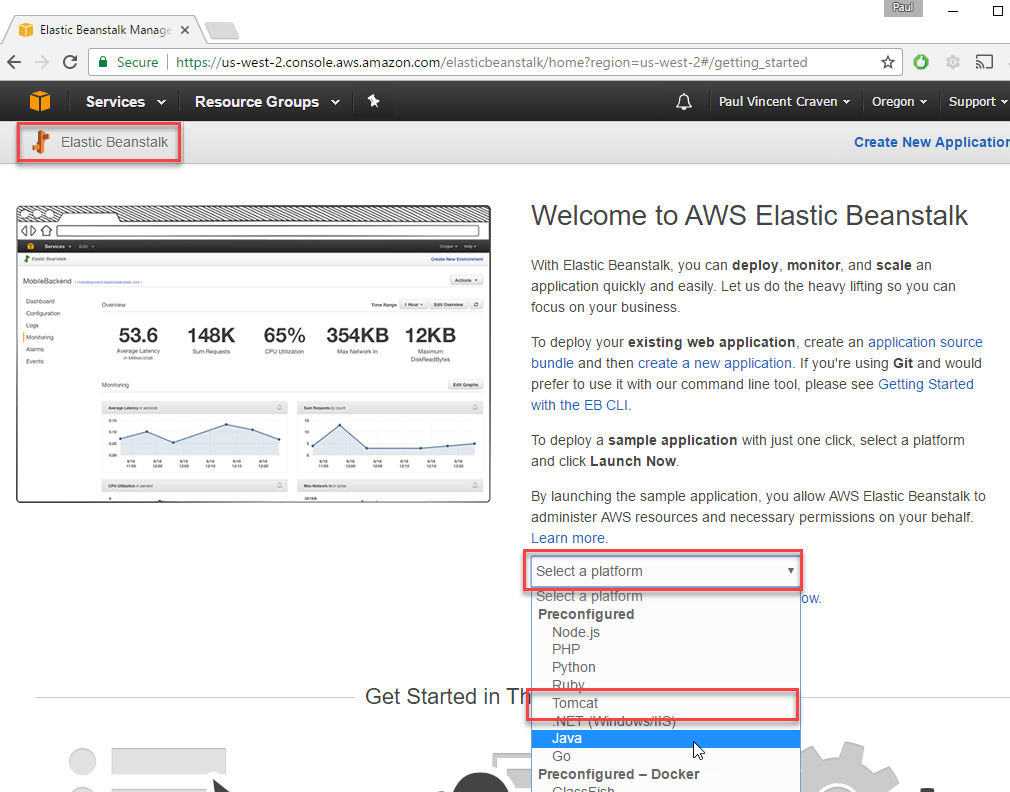
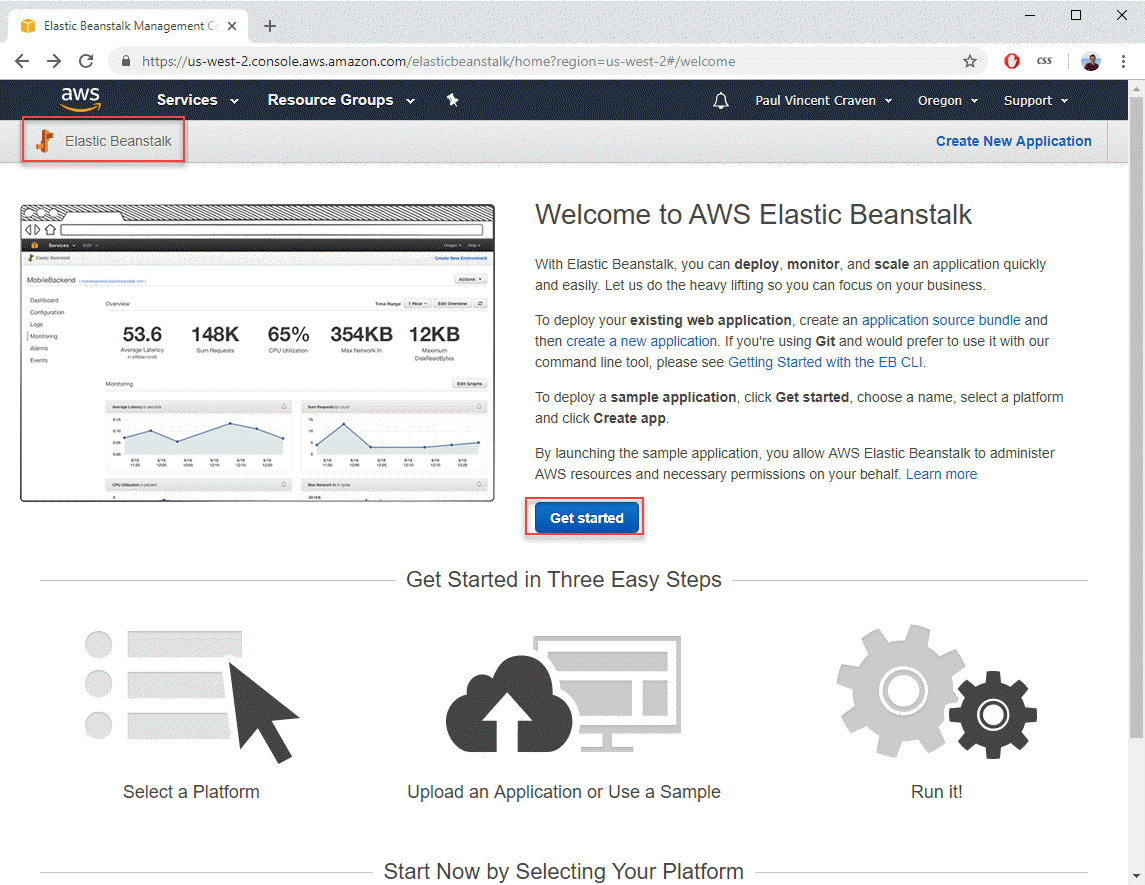
Update

diff --git a/source/semester_2/03_java_environment/java_environment.rst b/source/semester_2/03_java_environment/java_environment.rst
@@ -8,11 +8,14 @@ Install Java
 
 Download and install Java_. You want to download the "Standard Edition" (SE).
 There is also a "Java Runtime Environment" (JRE). This doesn't let you compile
-``.java`` files to ``.class``. So don't download that one.
+``.java`` files to ``.class``. So don't download that one. The SE will install
+both a Java Development Kit (JDK) and a Java Runtime Environment (JRE). We
+really only care about the JDK.
 
 .. note::
-    If you are using a lab computer, Java is already installed in
-    ``C:\Program Files\Java\jdk1.8.0_101``
+    If you already have Java installed, it may be in a path that looks something
+    like:
+    ``C:\Program Files\Java\jdk1.8.0_111``
 
 .. _Java: http://www.oracle.com/technetwork/java/javase/downloads/jdk8-downloads-2133151.html
 
@@ -43,7 +46,9 @@ Otherwise, when things break, you don't have the skills to fix it.
 Get the server running
 ^^^^^^^^^^^^^^^^^^^^^^
 
-Open up the XAMPP control panel and start Tomcat.
+Open up the XAMPP control panel and start Tomcat. It takes a while to start.
+There's a background window called ``catalina_start.bat`` you can watch if you
+get bored.
 
 .. image:: xampp.png
     :width: 500px
@@ -71,7 +76,11 @@ Serving static files
   find it in ``C:\xampp\tomcat\webapps``.
   Keep the directory name lower case and don't use spaces. Like
   ``test-app``.
+
+.. image:: create_folder.png
+
 * Create a test html file in that folder. I created ``webapps\test-app\test.html``
+* Enter some HTML, or just something like ``Hi There`` so you know it is working.
 * Go to ``http://localhost:8080/test-app/test.html`` and you should be able to
   see the static file you created. This is where your static images, css, and
   other files that don't change go.
@@ -109,21 +118,19 @@ Creating a "Hello World" servlet
   The "path" is a list of directories that Windows (or Linux or Mac)
   checks when you type in a command.
 
-* #1 Open up a file browser, and right-click on "Computer" and select
+* #1 Open a file browser and find where ``javac.exe`` is. For me it was in
+  ``C:\Program Files\Java\jdk1.8.0_111\bin``. You may have something different.
+  Search and be intelligent about it. Copy the path.
+* #2 Open up a file browser, and right-click on "This PC" and select
   "Properties".
-* #2 Select "Advanced System Settings".
-* #3 Select "Environment Variables".
-* #4 Select "Path".
-* #5 Select "Edit".
-* #6 The path is a huge long line, separated with semicolons ``;`` stuffed
-  into a little box. Unless you are on the current version of Windows, which
-  has a better editor. Add a ``;`` to the end of the line, taking care not
-  to destroy anything in the line. Then paste the path to your ``javac.exe``.
-  For lab computers, this is ``C:\Program Files\Java\jdk1.8.0_101\bin``.
-  Make sure not to use a path with ``jre`` in it, and only use one with
-  ``jdk``.
+* #3 Select "Advanced System Settings".
+* #4 Select "Environment Variables".
+* #5 Select "Path".
+* #6 Select "Edit".
+* #7 Add the path we just copied to the end.
 
-.. image:: edit_path.png
+
+.. image:: edit_path_variable.png
     :width: 640px
 
 * Open a **new** command prompt. The old one still has the old settings.
@@ -136,7 +143,7 @@ Creating a "Hello World" servlet
   ``javac -classpath ..\..\..\lib\servlet-api.jar TestServlet.java``
 * Well, darn. It created ``TestServlet.class`` in the current folder. Not the
   ``classes`` subfolder. That won't work. Move the file into that folder.
-* Restart Tomcat
+* Go to XAMPP and stop/start Tomcat
 * Try your servlet: ``http://localhost:8080/test-app/test``
 
 .. image:: hello_world.png
@@ -147,13 +154,11 @@ Install IntelliJ
 
 Ok! That was *too much work*. Let's deploy our web applications using an IDE.
 
-Download and install IntelliJ_. The free version works fine, or
-you can get a `student license`_ with an e-mail that ends in ``.edu``.
+Download and install IntelliJ_. The free version does NOT have the tools we need.
+You can get
+a `student license`_ with an e-mail that ends in ``.edu``. Please do this.
 
-It is also possible to use Eclipse, but IntelliJ seems to be the better
-choice now.
-
-Go ahead and enable these options while installing:
+The default tools are ok when installing.
 
 .. image:: intellij_plugins.png
     :width: 600px
@@ -166,7 +171,9 @@ Make a Java Servlet Project
 ---------------------------
 
 Now you have Java, and an Integrated Development Environment (IDE) installed.
-Let's use the IDE to set up our first web project.
+Let's use the IDE to set up our first web project. Select these options. If
+you do not have these options, you might have the free community edition. You
+need to get the other edition.
 
 .. image:: new_project.png
     :width: 600px
@@ -241,7 +248,33 @@ Then select our ``index.jsp`` page and run the application:
     :width: 600px
     :align: center
 
-Great! Now we see our super-exciting web page:
+If nothing happens, look for an error at the bottom. This means Tomcat is already
+running from XAMPP. So shutdown Tomcat from XAMPP so IntelliJ can run it instead.
+
+.. image:: tomcat_already_running_error.png
+
+What you are supposed to see is our web page. But what you probably see in
+reality is a 404 File Not Found error. Frustrating. And why? It isn't easy
+to find out. But a search on Google and/or Stack Overflow will lead us to the
+answer. It is because of the *Application Context*.
+
+.. image:: app_context.png
+
+The application context allows us to have several apps, and use a different
+directory for start-up. You can type in this box and change it. But the start-up
+page on the other tab should have a directory that matches:
+
+.. image:: app_context_2.png
+
+Make sure to apply your changes. And you should apply them when the app isn't
+running. Also, it is easy to have multiple configurations. Each time your right-click
+on a file to run it you get a new configuration. Get out of that habit and use
+the pull-down and start menu instead.
+
+If you have any configurations like ``index.jsp (1)`` go into the configuration
+editor and get rid of them.
+
+If you get it working we see our super-exciting web page:
 
 .. image:: run4.png
     :width: 400px

diff --git a/source/semester_2/04_java_remote_environment/java_remote_environment.rst b/source/semester_2/04_java_remote_environment/java_remote_environment.rst
@@ -11,7 +11,7 @@ This way of doing things seemed reasonably straight-forward to get started
 with.
 
 To begin with log into the `AWS Console`_. Then go to the "Elastic Beanstalk"
-panel. Select "Tomcat." **Don't** select "Java" like I did the first time.
+panel. Select "Get Started".
 
 .. image:: launch_java_ebs.png
 
@@ -22,22 +22,12 @@ panel. Select "Tomcat." **Don't** select "Java" like I did the first time.
   on load. Also, you don't have to maintain a full virtual machine, which is
   great.
 
-
-The computer will work for a while getting the environment set up.
-Next, you will see the screen shown below. AWS automatically deployed
-a sample application. You can click on the URL and see it. And we have a button to
-upload our application.
-
-.. image:: upload_our_app.png
-
-Since I messed up the first time while creating this tutorial, I noticed
-the next time I tried to deploy an application I was given the option to update
-to a new interface. I did that. It looked like this when I created the app:
+The next screen should look like this. Fill out the fields as indicated.
 
 .. image:: launch_java_ebs_2.png
+   :width: 75%
 
-Note that it is asking me to upload the application file right there, and didn't
-start with a sample application.
+Oh wait! What about Step 4? It wants us to upload a ZIP or WAR file?
 
 But we haven't yet created a deployment file to upload! How do we do that? We
 need to learn how to "Make WAR." This isn't a class for hippies.
@@ -68,7 +58,18 @@ After that, deploy our file. Click choose file, and paste in the war path.
 
 .. image:: paste_path.png
 
-There you go! You should have your deployed web application. Next step will
-be to start making it do something interesting.
+There you go! The computer will take some time getting everything set up. It can
+be fun watching it work. Or you can poke around on your phone instead. Whatever.
+
+.. image:: waiting.png
+   :width: 75%
+
+Once deployed, you'll see a screen like the following:
+
+.. image:: upload_our_app.png
+
+By clicking on the somewhat hidden URL pointed to by Item 1, you can go see your
+app working. You can update the app by uploading a new WAR file with the
+Upload and Deploy button.
 
 .. _AWS Console: http://console.aws.amazon.com
